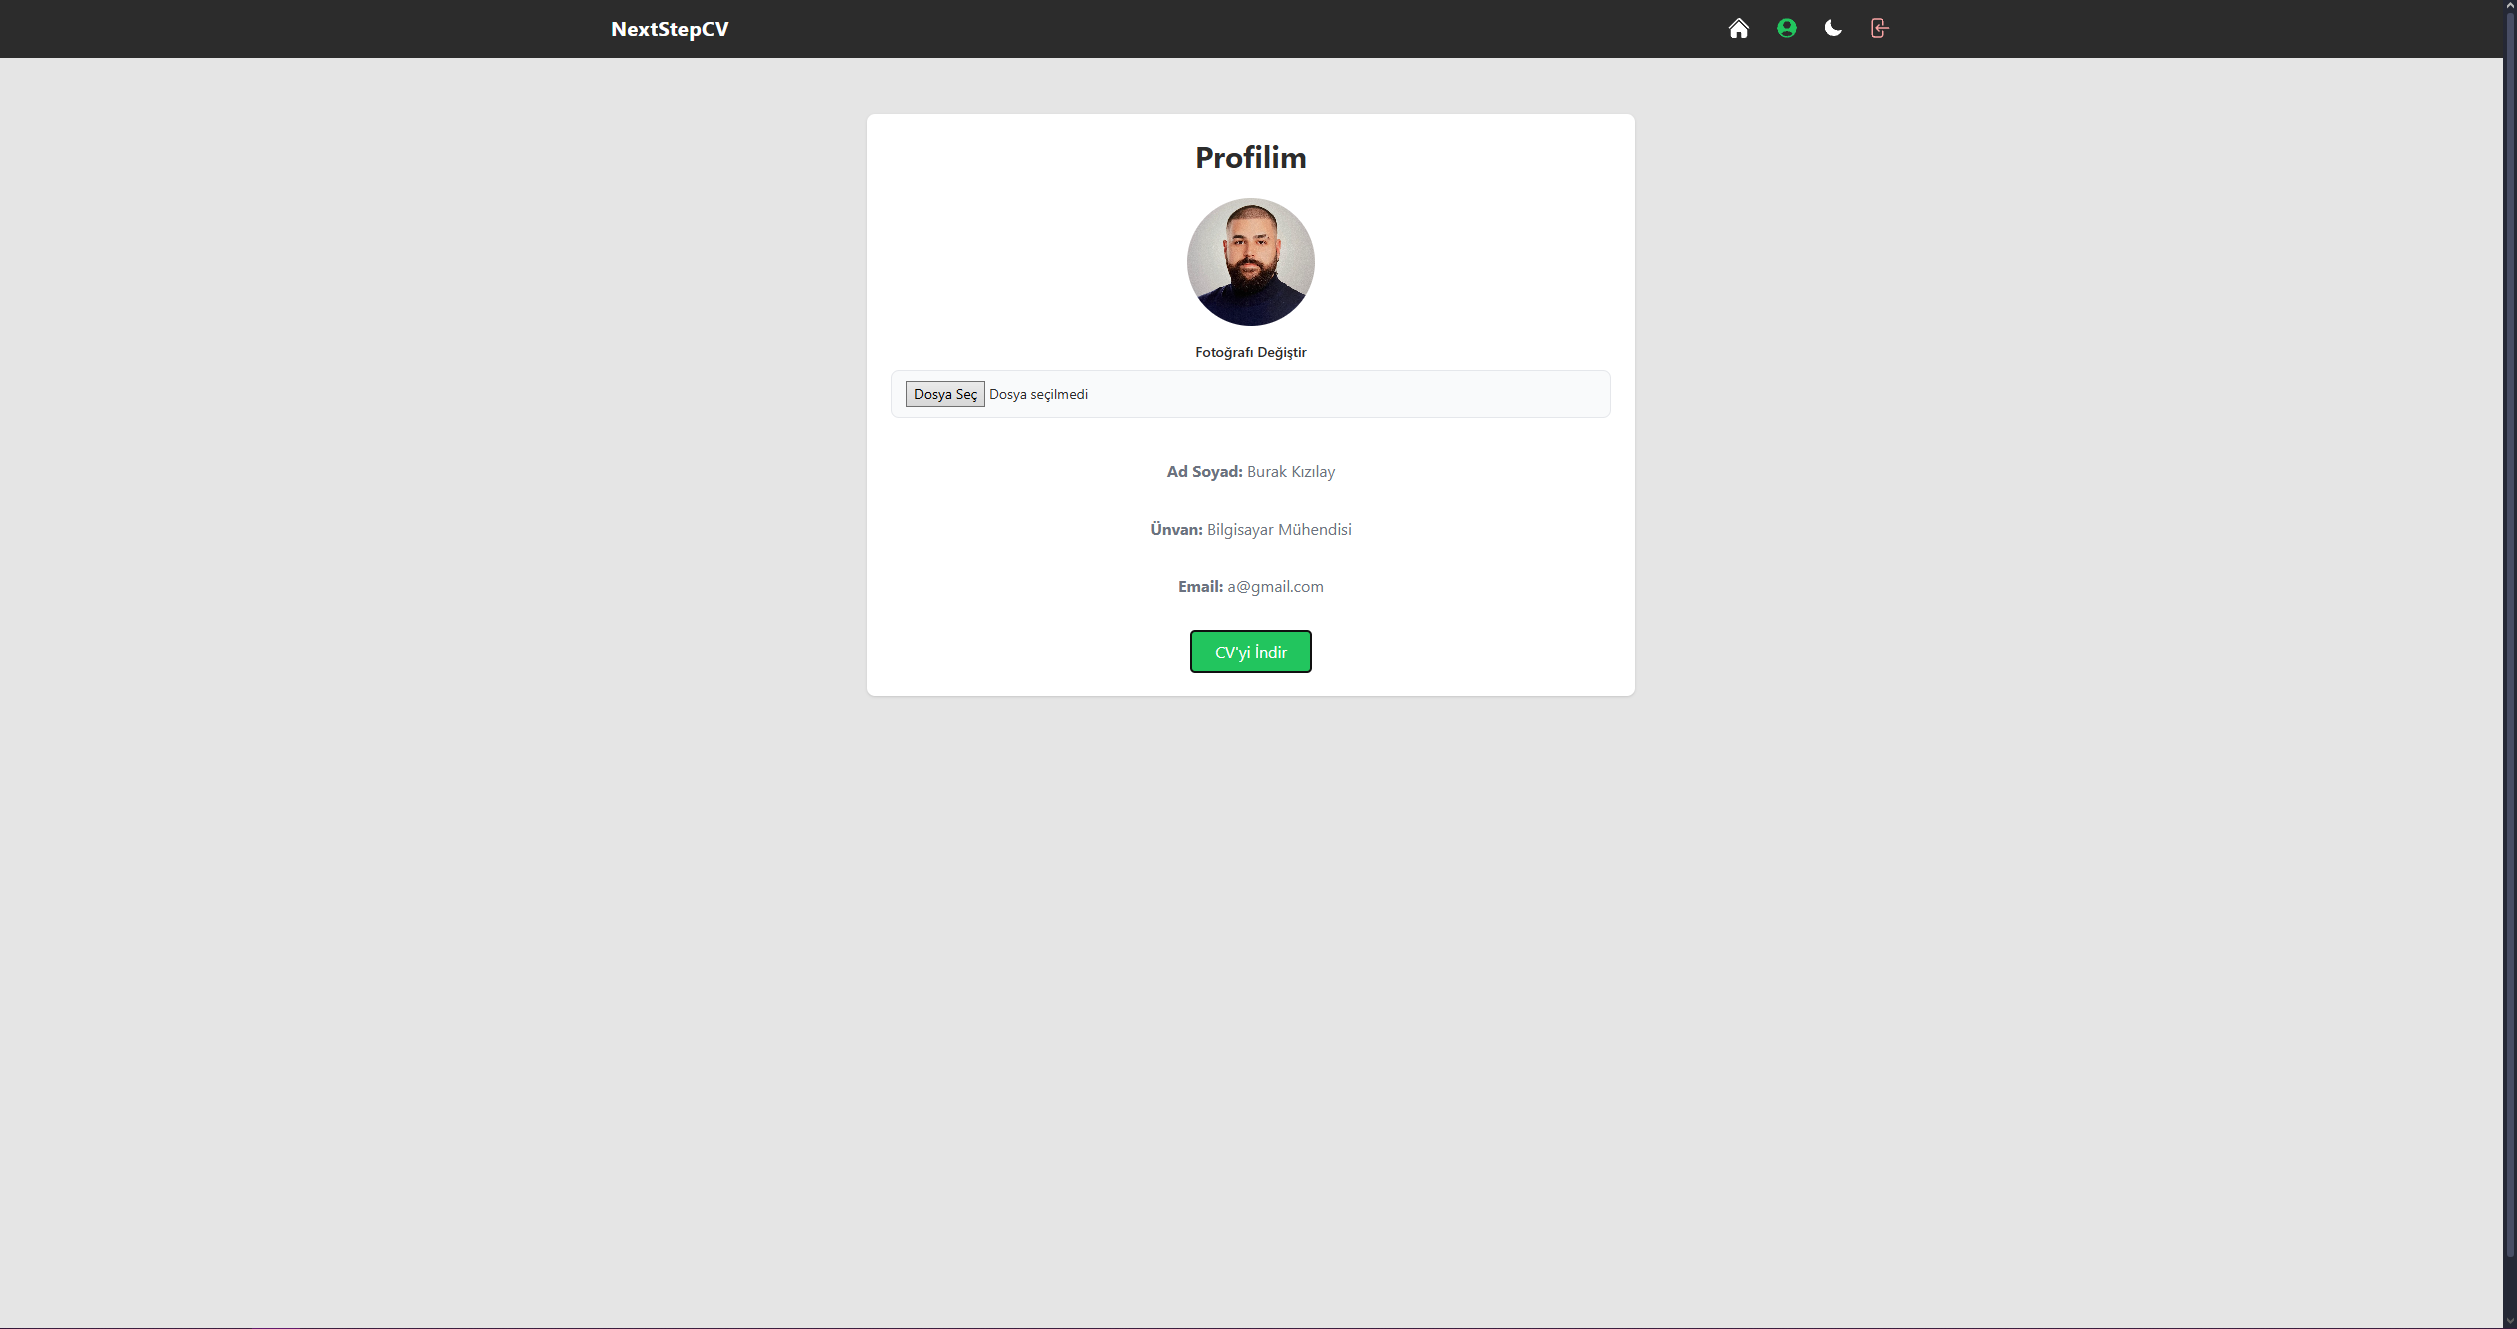
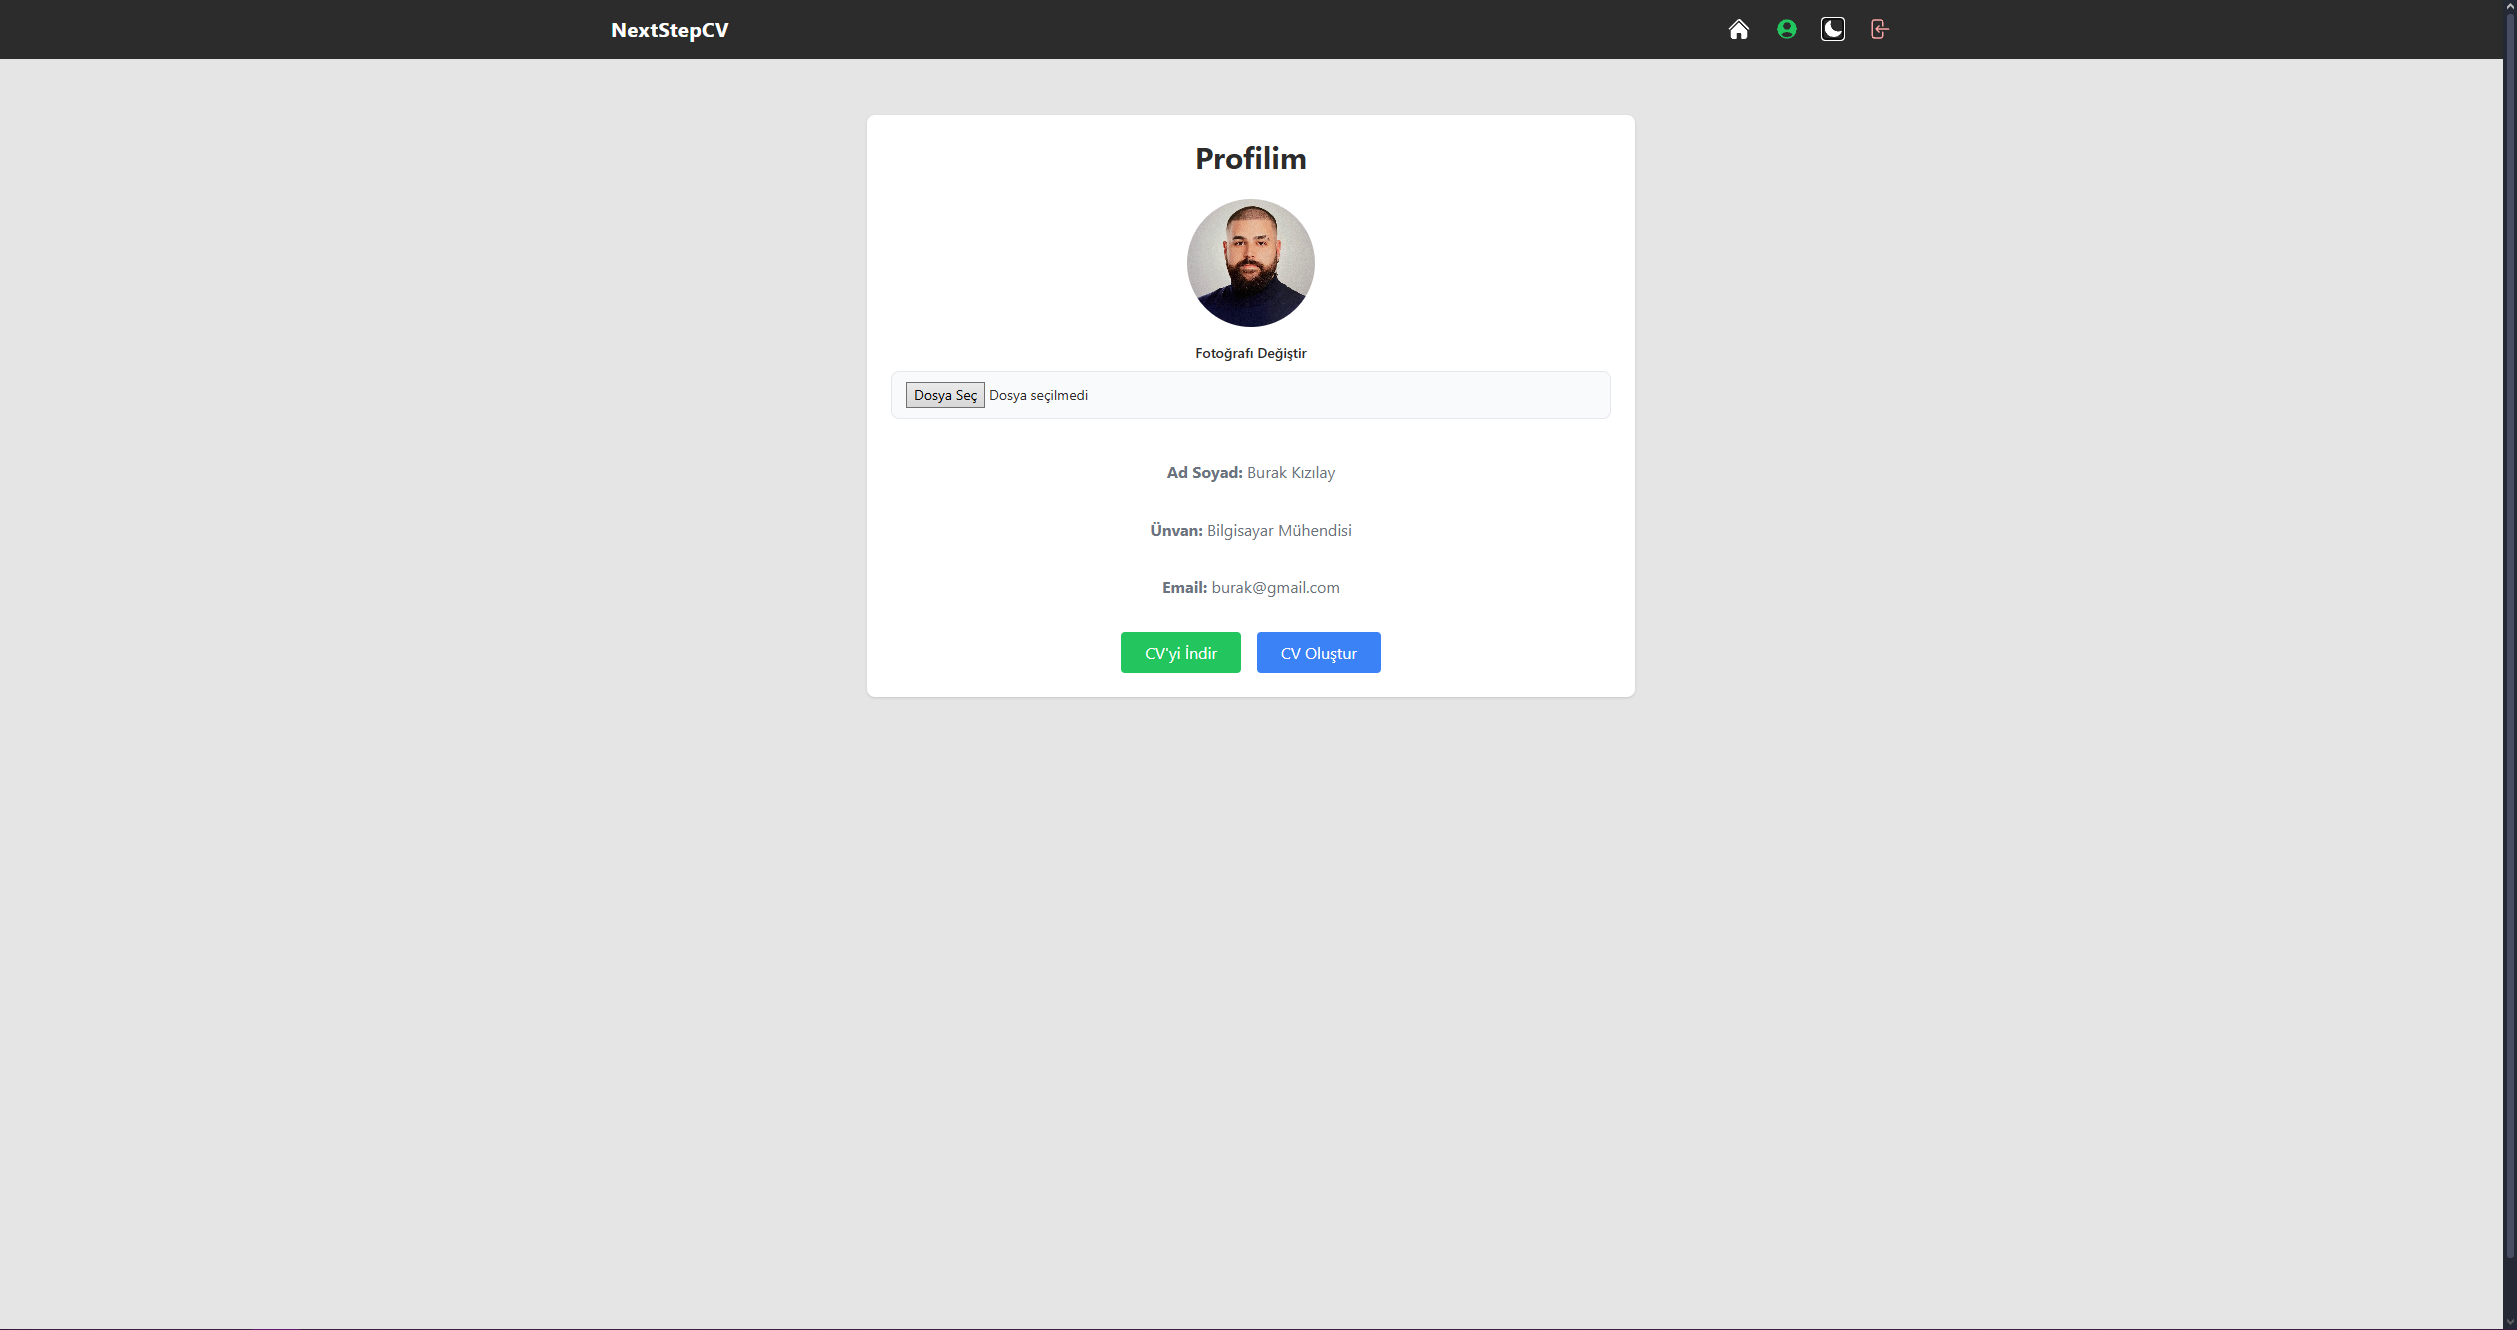
landing and profile page changes

diff --git a/src/pages/Profile.jsx b/src/pages/Profile.jsx
@@ -68,55 +68,61 @@ const Profile = () => {
   };
 
 
-    return (
-        <div className="min-h-screen bg-[#e5e5e5] p-6 dark:bg-gray-900 ">
-            <div className="max-w-3xl mx-auto p-6 bg-white rounded-lg shadow mt-8 dark:bg-gray-800 dark:text-white">
-                <h1 className="text-3xl font-bold text-center mb-6 dark:text-white">Profilim</h1>
+  return (
+    <div className="min-h-screen bg-[#e5e5e5] p-6 dark:bg-gray-900 ">
+      <div className="max-w-3xl mx-auto p-6 bg-white rounded-lg shadow mt-8 dark:bg-gray-800 dark:text-white">
+        <h1 className="text-3xl font-bold text-center mb-6 dark:text-white">Profilim</h1>
 
-                <div className="flex flex-col items-center mb-6">
-                    {formData.profileImage ? (
-                        <img
-                            src={formData.profileImage}
-                            alt="Profil Fotoğrafı"
-                            className="w-32 h-32 object-cover rounded-full mb-4"
-                        />
-                    ) : (
-                        <div className="w-32 h-32 rounded-full bg-gray-200 flex items-center justify-center mb-4">
-                            <span className="text-gray-500">No Photo</span>
-                        </div>
-                    )}
-
-                    <label className="text-sm mb-2 font-medium">Fotoğrafı Değiştir</label>
-                    <input 
-                        type="file"
-                        accept="image/*"
-                        onChange={handleUploadPhoto}
-                        className="text-sm dark:bg-gray-700 dark:text-white"
-                        disabled={uploading}
-                    />
-                </div>
-
-                <div className="mb-6 dark:text-white">
-                    <p className="dark:text-white"><strong>Ad Soyad:</strong> {formData.name || "-"}</p>
-                    <p className="dark:text-white"><strong>Ünvan:</strong> {formData.title || "-"}</p>
-                    <p className="dark:text-white"><strong>Email:</strong> {formData.email}</p>
-                </div>
-
-                <div className="flex justify-center">
-                    <PDFDownloadLink
-                        document={<CvPDF formData={formData} />}
-                        fileName={`${formData.name || "CV"}_NextStepCV.pdf`}
-                    >
-                        {({ loading }) => (
-                            <button className="bg-green-500 hover:bg-green-600 text-white px-6 py-2 rounded">
-                                {loading ? "Hazırlanıyor..." : "CV'yi İndir"}
-                            </button>
-                        )}
-                    </PDFDownloadLink>
-                </div>
+        <div className="flex flex-col items-center mb-6">
+          {formData.profileImage ? (
+            <img
+              src={formData.profileImage}
+              alt="Profil Fotoğrafı"
+              className="w-32 h-32 object-cover rounded-full mb-4"
+            />
+          ) : (
+            <div className="w-32 h-32 rounded-full bg-gray-200 flex items-center justify-center mb-4">
+              <span className="text-gray-500">No Photo</span>
             </div>
+          )}
+
+          <label className="text-sm mb-2 font-medium">Fotoğrafı Değiştir</label>
+          <input
+            type="file"
+            accept="image/*"
+            onChange={handleUploadPhoto}
+            className="text-sm dark:bg-gray-700 dark:text-white"
+            disabled={uploading}
+          />
         </div>
-    );
+
+        <div className="mb-6 dark:text-white">
+          <p className="dark:text-white"><strong>Ad Soyad:</strong> {formData.name || "-"}</p>
+          <p className="dark:text-white"><strong>Ünvan:</strong> {formData.title || "-"}</p>
+          <p className="dark:text-white"><strong>Email:</strong> {formData.email}</p>
+        </div>
+
+        <div className="flex justify-center mt-4 gap-4">
+          <PDFDownloadLink
+            document={<CvPDF formData={formData} />}
+            fileName={`${formData.name || "CV"}_NextStepCV.pdf`}
+          >
+            {({ loading }) => (
+              <button className="bg-green-500 hover:bg-green-600 text-white px-6 py-2 rounded">
+                {loading ? "Hazırlanıyor..." : "CV'yi İndir"}
+              </button>
+            )}
+          </PDFDownloadLink>
+          <button
+            onClick={() => navigate("/cv-builder")}
+            className="bg-blue-500 hover:bg-blue-600 text-white px-6 py-2 rounded"
+          >
+            CV Oluştur
+          </button>
+        </div>
+      </div>
+    </div>
+  );
 };
 
 export default Profile;

diff --git a/src/pages/Landing.jsx b/src/pages/Landing.jsx
@@ -1,11 +1,33 @@
 import { useNavigate } from "react-router-dom";
 import { DocumentTextIcon } from "@heroicons/react/24/solid";
 
+const testimonials = [
+  {
+    quote:
+      "Over 75% of resumes are never seen by human eyes if they're not ATS compliant.",
+    name: "Jon Shields",
+    title: "Recruiting Strategist, Jobscan",
+  },
+  {
+    quote:
+      "An ATS-friendly resume ensures your application actually gets read. It's the first filter you need to pass.",
+    name: "Amanda Augustine",
+    title: "Career Expert, TopResume",
+  },
+  {
+    quote:
+      "If your resume isn’t optimized for ATS, you’re essentially invisible to employers.",
+    name: "Lily Zhang",
+    title: "Career Development Specialist, MIT",
+  },
+];
+
 const Landing = () => {
   const navigate = useNavigate();
 
   return (
-    <div className="min-h-screen bg-[#e5e5e5] flex flex-col justify-center items-center px-4 text-center dark:bg-gray-900 dark:text-white">
+    <div className="min-h-screen bg-[#e5e5e5] dark:bg-gray-900 dark:text-white flex flex-col items-center px-4 pt-40 pb-16 text-center">
+      {/* Hero */}
       <DocumentTextIcon className="h-20 w-20 text-green-500 mb-6" />
       <h1 className="text-4xl md:text-5xl font-bold mb-4 text-[#2c2c2c] dark:text-white">
         ATS uyumlu, profesyonel CV’nizi kolayca oluşturun
@@ -15,10 +37,35 @@ const Landing = () => {
       </p>
       <button
         onClick={() => navigate("/cv-builder")}
-        className="bg-green-500 hover:bg-green-600 text-white px-6 py-3 rounded-lg shadow transition"
+        className="bg-green-500 hover:bg-green-600 text-white px-6 py-3 rounded-lg shadow transition mb-16"
       >
         CV Oluştur
       </button>
+
+      {/* ATS Info */}
+      <div className="max-w-3xl mb-14 pt-6">
+        <h2 className="text-2xl font-semibold mb-3 text-green-500">ATS Nedir?</h2>
+        <p className="text-md text-gray-800 dark:text-gray-300 leading-relaxed">
+          ATS (Aday Takip Sistemi), işe alım süreçlerinde kullanılan yazılımlardır.
+          İşverenler, adayların CV'lerini bu sistemler üzerinden otomatik olarak tarar.
+          Biçimlendirmesi hatalı veya anahtar kelimeleri eksik olan CV’ler, sistemden
+          geçemez. Bu nedenle <strong>ATS uyumlu bir CV</strong> ile başvuru yapmak, mülakat şansınızı ciddi ölçüde artırır.
+        </p>
+      </div>
+
+      {/* Expert Testimonials */}
+      <div className="grid md:grid-cols-3 gap-6 max-w-6xl w-full px-4 pt-6">
+        {testimonials.map((t, idx) => (
+          <div
+            key={idx}
+            className="bg-[#c9c9c9] dark:bg-gray-800 p-6 rounded-lg shadow-md text-left"
+          >
+            <p className="italic text-gray-800 dark:text-gray-300 mb-4">"{t.quote}"</p>
+            <p className="font-bold text-gray-900 dark:text-white">{t.name}</p>
+            <p className="text-sm text-gray-600 dark:text-gray-400">{t.title}</p>
+          </div>
+        ))}
+      </div>
     </div>
   );
 };
